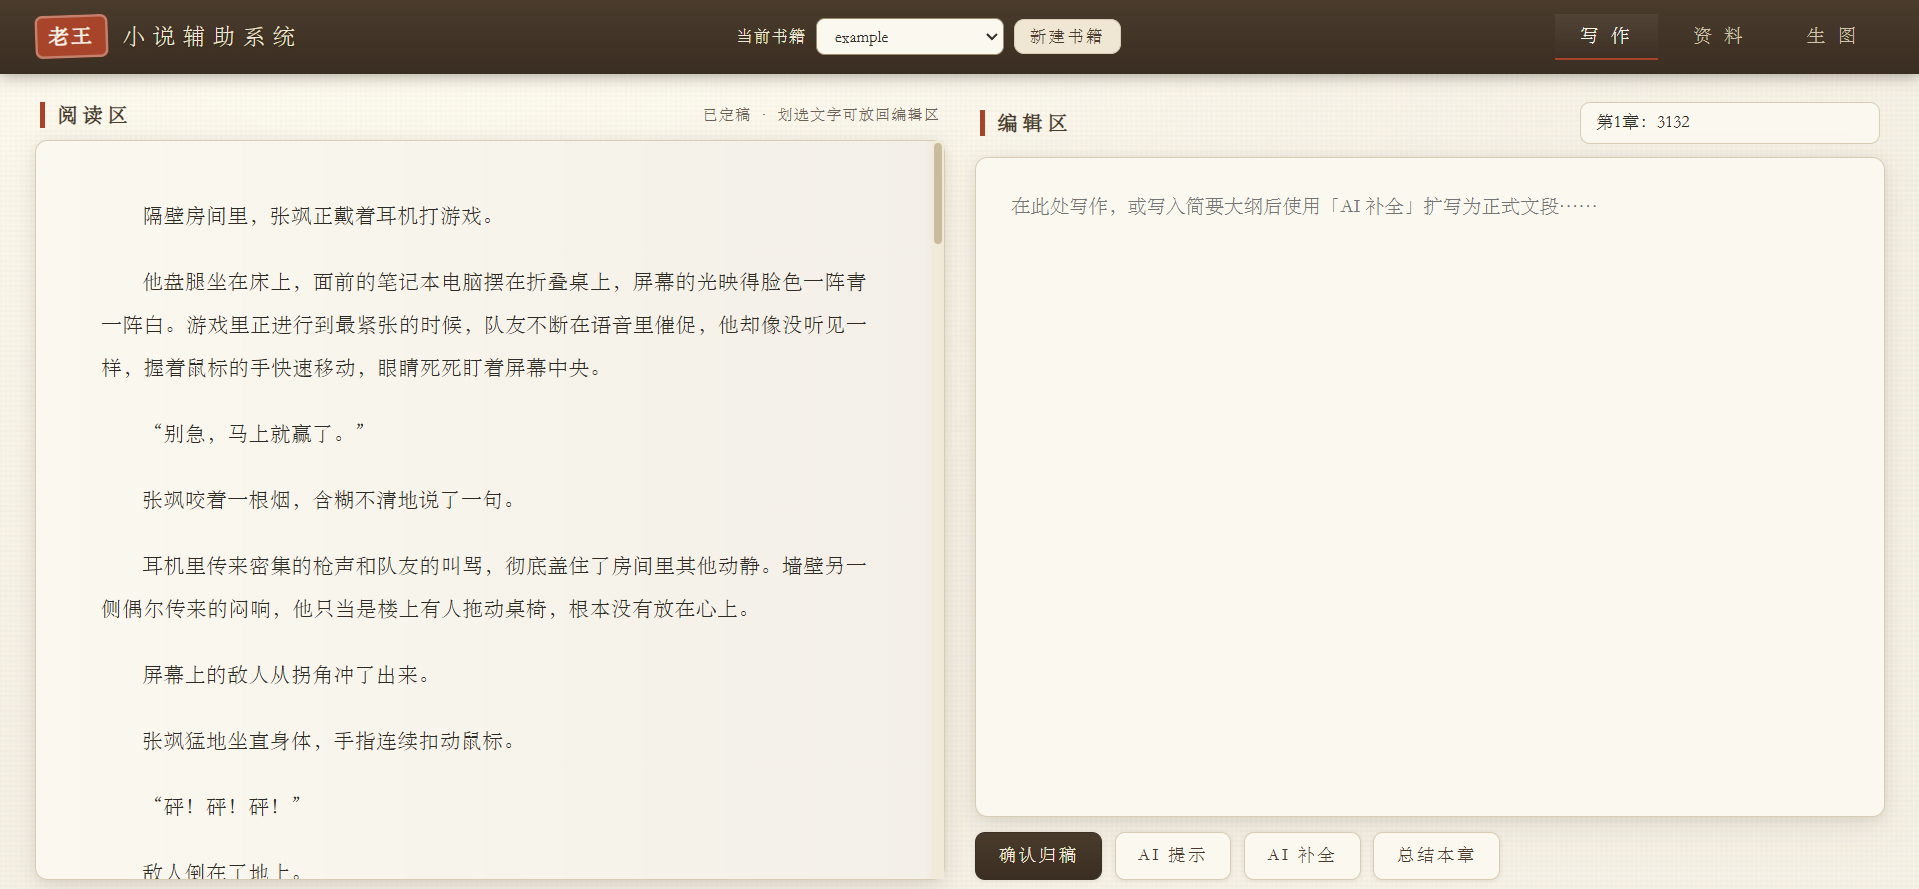
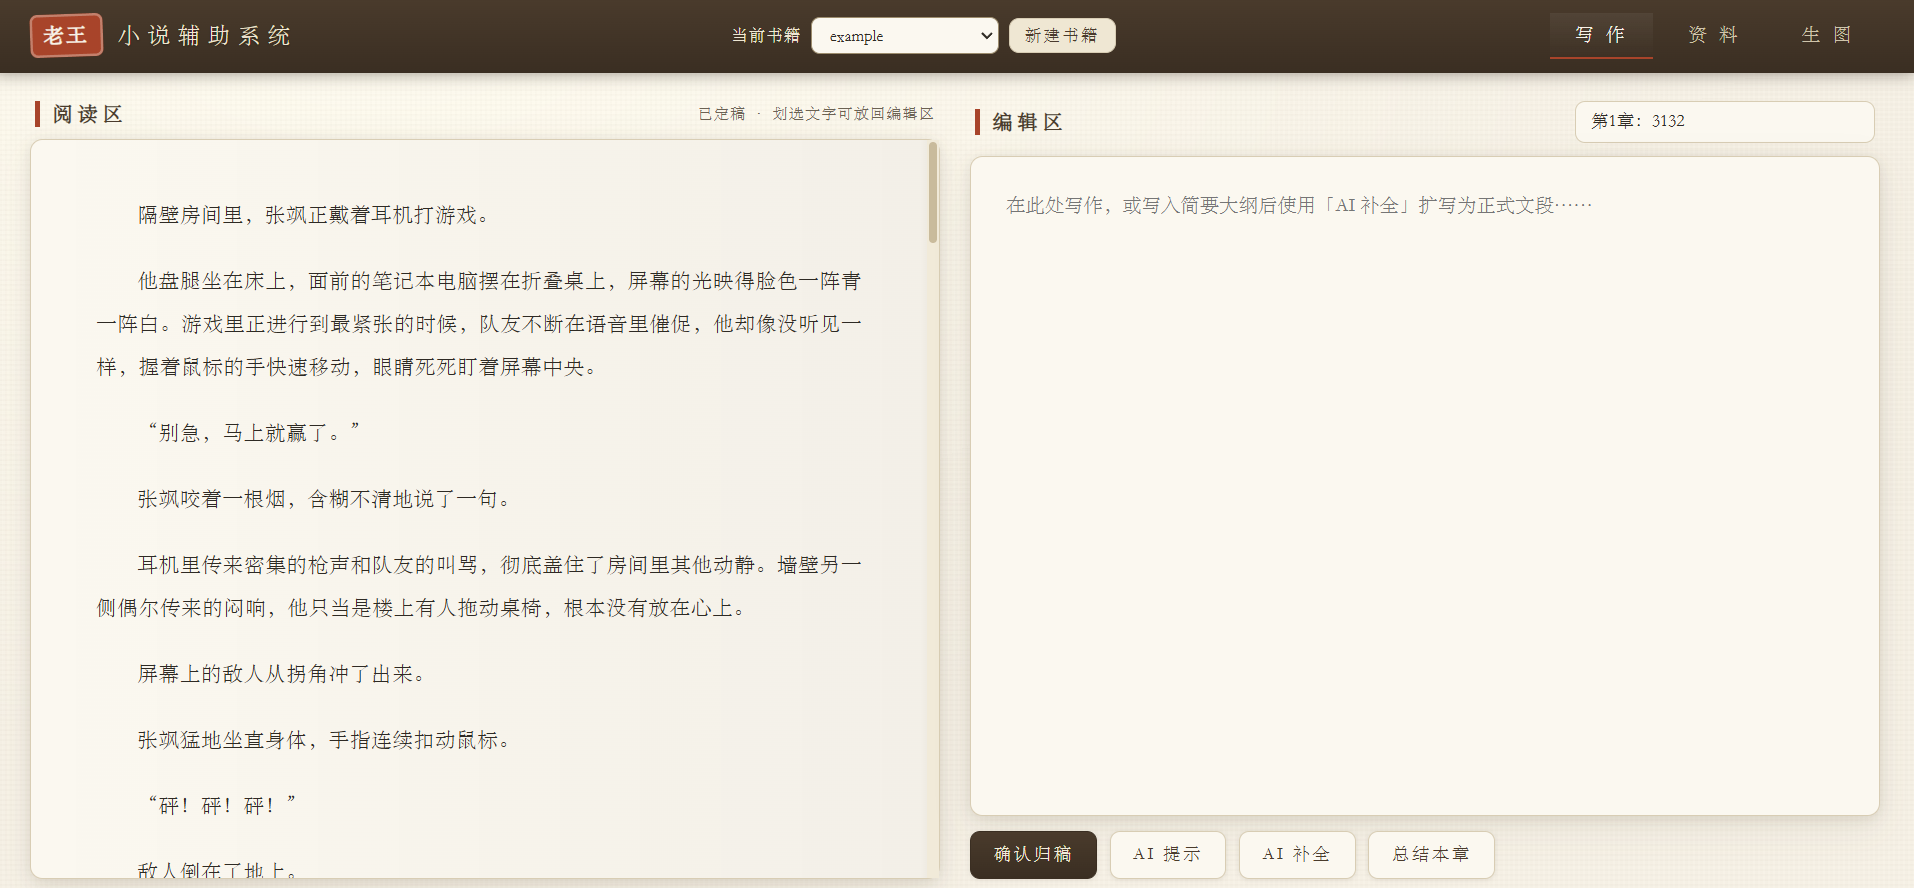
更新readme加入页面展示

diff --git a/README.md b/README.md
@@ -1,5 +1,5 @@
 # 小说辅助系统
-
+![alt text](image.png)
 一个采用纸质阅读风格的多书籍小说创作辅助系统，包含写作、RAG 资料管理、章节/分卷总结和 AI 生图。后端为 Node.js + Express，前端为原生 HTML/CSS/JavaScript，无构建步骤。
 
 ## 功能说明
